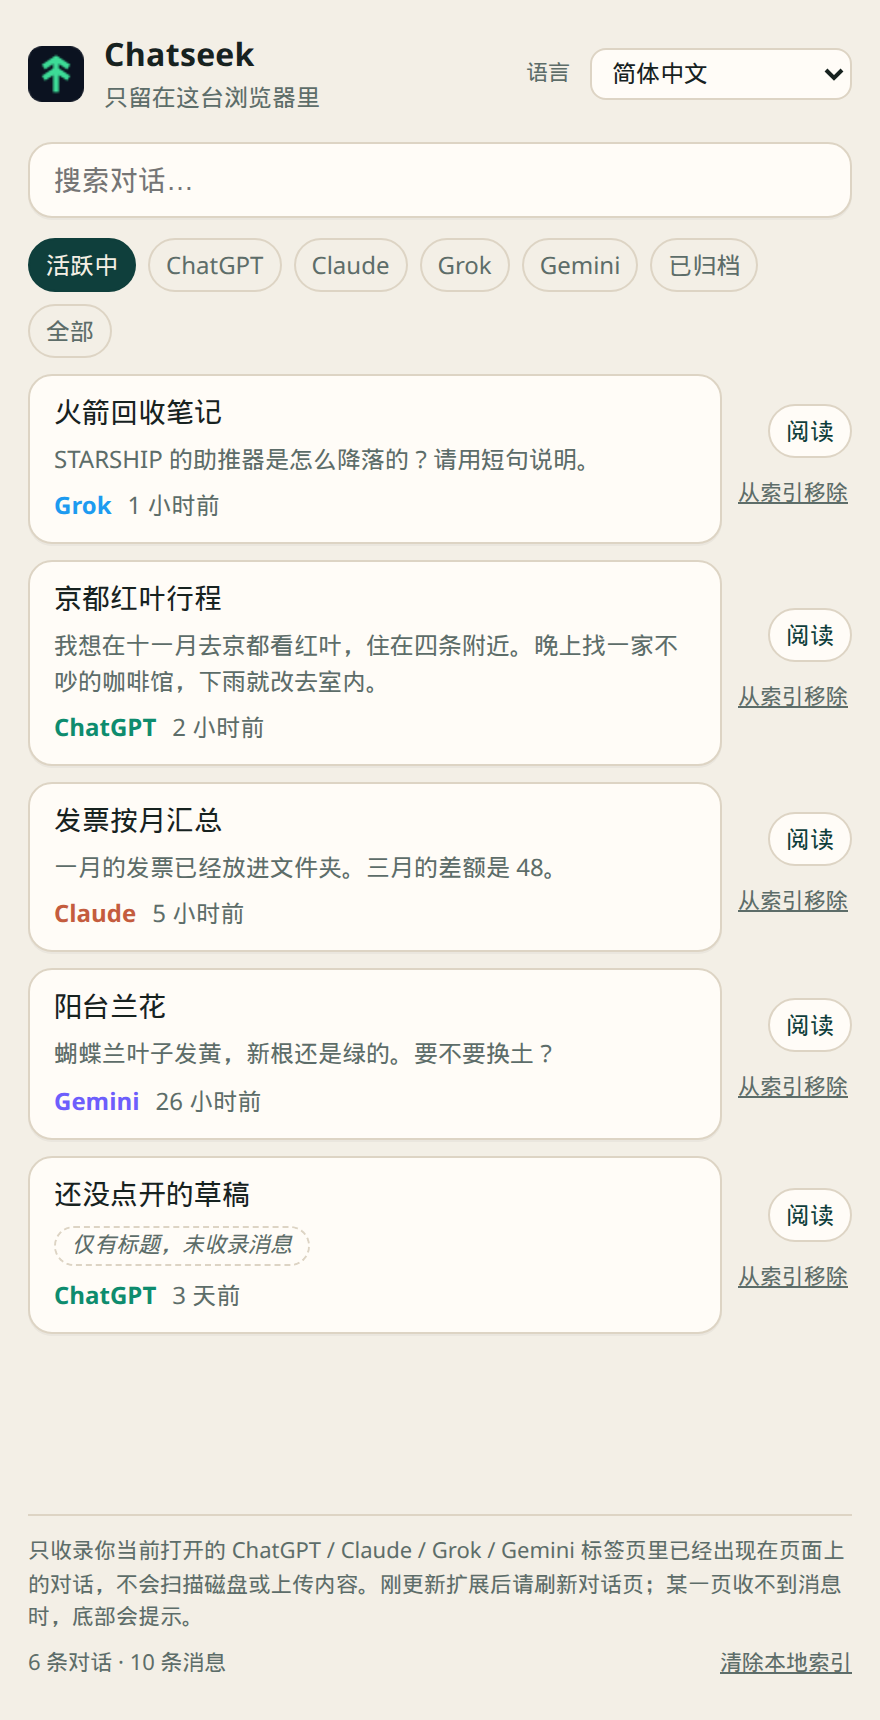
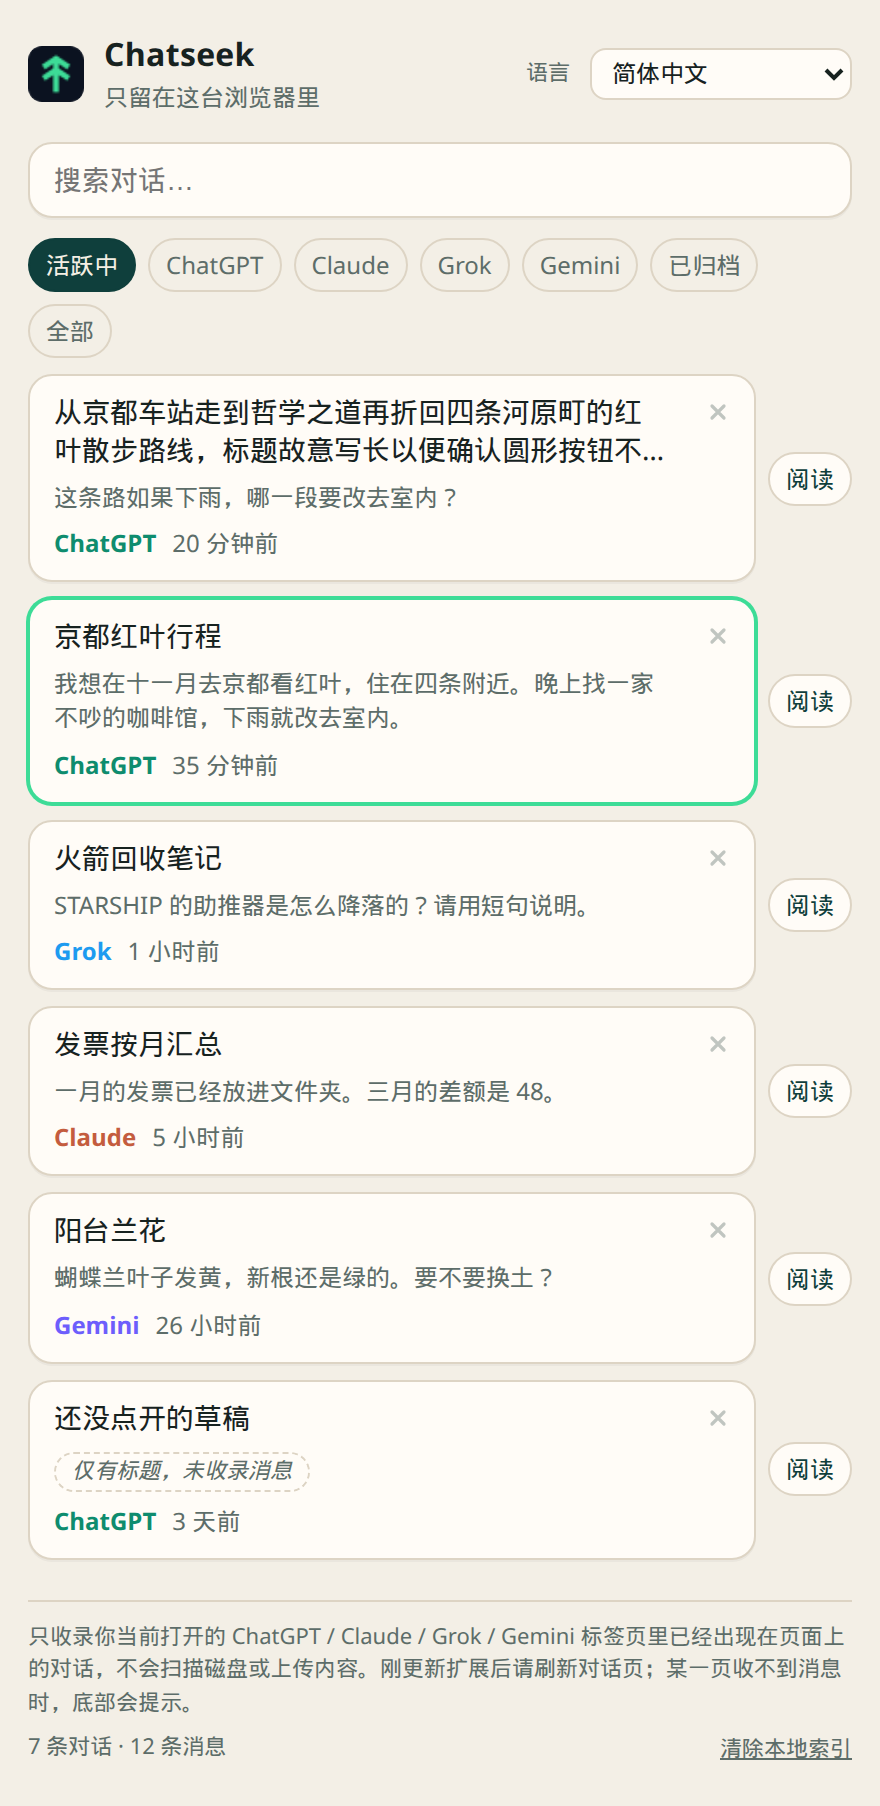
Show remove-from-index as a corner X on each side-panel row.
The control stays a button with the existing remove label in every locale, and it still asks for confirmation before deleting.

diff --git a/sidepanel/panel.js b/sidepanel/panel.js
@@ -262,16 +262,42 @@ function render(items, { emptyKind, error }) {
     removeBtn.type = "button";
     removeBtn.className = "remove";
     removeBtn.dataset.id = conv.id || "";
-    removeBtn.textContent = t.remove;
+    removeBtn.setAttribute("aria-label", t.remove);
+    removeBtn.title = t.remove;
+    removeBtn.append(removeIcon());
+    removeBtn.addEventListener("keydown", (event) => {
+      if (event.key !== "Enter" && event.key !== " " && event.key !== "Spacebar") return;
+      event.preventDefault();
+      if (event.repeat) return;
+      askRemove(conv);
+    });
     removeBtn.addEventListener("click", () => askRemove(conv));
 
     const actions = document.createElement("div");
     actions.className = "row-actions";
-    actions.append(readBtn, removeBtn);
-    row.append(btn, actions);
+    actions.append(readBtn);
+    row.append(btn, removeBtn, actions);
     li.append(row);
     listEl.append(li);
   }
+}
+
+function removeIcon() {
+  const ns = "http://www.w3.org/2000/svg";
+  const svg = document.createElementNS(ns, "svg");
+  svg.setAttribute("viewBox", "0 0 12 12");
+  svg.setAttribute("width", "12");
+  svg.setAttribute("height", "12");
+  svg.setAttribute("aria-hidden", "true");
+  svg.setAttribute("focusable", "false");
+  const path = document.createElementNS(ns, "path");
+  path.setAttribute("d", "M3 3l6 6M9 3L3 9");
+  path.setAttribute("fill", "none");
+  path.setAttribute("stroke", "currentColor");
+  path.setAttribute("stroke-width", "1.6");
+  path.setAttribute("stroke-linecap", "round");
+  svg.append(path);
+  return svg;
 }
 
 function closeRemove(answer) {

diff --git a/sidepanel/panel.css b/sidepanel/panel.css
@@ -232,23 +232,28 @@ body {
 }
 
 .row {
-  display: flex;
+  display: grid;
+  grid-template-columns: minmax(0, 1fr) auto;
   align-items: stretch;
-  gap: 6px;
+  column-gap: 6px;
   margin: 0 0 8px;
 }
 
-.row .item {
+.row > .item {
+  grid-column: 1;
+  grid-row: 1;
   margin: 0;
+  padding-right: 44px;
 }
 
 .row-actions {
+  grid-column: 2;
+  grid-row: 1;
   display: flex;
   flex-direction: column;
   justify-content: center;
   align-items: flex-end;
   gap: 6px;
-  flex: 0 0 auto;
 }
 
 .read {
@@ -269,17 +274,45 @@ body {
 }
 
 .remove {
-  flex: 0 0 auto;
-  align-self: flex-end;
-  border: 0;
-  background: none;
+  grid-column: 1;
+  grid-row: 1;
+  justify-self: end;
+  align-self: start;
+  z-index: 1;
+  width: 22px;
+  height: 22px;
+  margin: 8px 8px 0 0;
+  padding: 0;
+  border: 1px solid transparent;
+  border-radius: 999px;
+  background: transparent;
   color: var(--muted);
+  opacity: 0.38;
+  display: grid;
+  place-items: center;
   cursor: pointer;
-  font-size: 11px;
-  text-decoration: underline;
-  padding: 4px 2px;
-  max-width: 6rem;
-  word-break: auto-phrase;
+  line-height: 0;
+}
+
+.remove svg {
+  display: block;
+  width: 12px;
+  height: 12px;
+}
+
+.row:hover > .remove,
+.row:focus-within > .remove,
+.remove:hover,
+.remove:focus-visible {
+  opacity: 1;
+  color: var(--fg);
+  background: color-mix(in srgb, var(--card) 82%, var(--fg));
+  border-color: var(--line);
+}
+
+.remove:focus-visible {
+  outline: 2px solid var(--accent);
+  outline-offset: 2px;
 }
 
 .badge-archived {

diff --git a/README.md b/README.md
@@ -25,7 +25,7 @@
 - **本机阅读页**：每一行可以点「阅读」，也可以点预览。浏览器会新开一个分页，只读这台电脑 IndexedDB 里的标题、平台、日期和已收录消息，不连接四家网站。从搜索进来时，第一处命中是黄底，页顶可以上一处、下一处。页顶的「去原网站打开」才回到原来的网址（Gemini 的 `/u/数字/` 会保留）。聊天文字按纯文本显示，不会当成网页去执行。
 - **当前这段对话有绿框**：侧栏里正在打开的那一行用绿色边框标出，换标签或在页面里点进另一段会跟着走。
 - **封存仍可搜**：页面上明确标成已封存的对话留在索引里，带灰色「已封存」标签。目前只有 ChatGPT 有这种明确标记（封存列表，或打开后的封存横幅／取消封存按钮）。从侧栏消失不会改状态，也不会自动删。之后又在未封存的页面上看到，会恢复成活跃。
-- **从索引移除**：每一行都可以在确认后，从这台浏览器的索引里删掉这一段（对话、消息、倒排索引一起删）。网站上的聊天不动。网站侧栏里还列着它也不会被加回来；以后在网站上再打开这一段，才会重新收进来。
+- **从索引移除**：每一行右上角有一个圆形叉。平常比较淡，鼠标停在这一行或用键盘聚焦时变清楚。悬停提示仍是「从索引移除」（其他语言用各自的译文）。确认后，才从这台浏览器的索引里删掉这一段（对话、消息、倒排索引一起删）。网站上的聊天不动。网站侧栏里还列着它也不会被加回来；以后在网站上再打开这一段，才会重新收进来。
 - **按最后活动时间排**：日期尽量取对话的最后活动时间，不拿收录时间冒充，规则见下方「侧栏日期怎么读」。
 - **收不到会提示**：对话页连续约 8 秒一条消息都没读到时，侧栏底部会提示「页面可能改版」，工具栏图标出现「!」。
 - **界面语言**默认跟随浏览器，侧栏右上角也可以手动切换，选择会记在这台浏览器里。内置繁体中文、简体中文、English、日本語、한국어、español、français、Deutsch、português（巴西）。日期用该语言的 `Intl` 格式；「约」「早于」「日期未知」也会跟着翻。扩展在 `chrome://extensions` 上的名称和说明跟随浏览器语言。
@@ -57,7 +57,7 @@
 
 1. 打开 chatgpt.com、claude.ai、grok.com 或 gemini.google.com，浏览对话列表，点进你想以后搜得到的对话。
 2. 点工具栏的 Chatseek 图标打开侧栏，输入关键词。
-3. 用上方页签看活跃、某一家、已封存或全部。搜索框只搜当前页签。点标题回到原对话。点「阅读」或预览，在新分页里看本机收录的内容。每一行的「从索引移除」只删本机这一条，要先确认。
+3. 用上方页签看活跃、某一家、已封存或全部。搜索框只搜当前页签。点标题回到原对话。点「阅读」或预览，在新分页里看本机收录的内容。每一行右上角的圆形叉只删本机这一条，要先确认。
 
 很长的对话只会收已经画在页面上的消息；想多收，就在那段对话里往上滚。
 
@@ -110,7 +110,7 @@ npm run test:fixture  # ChatGPT / Gemini 离线样本
 npm run test:gemini   # Gemini 收录到 IndexedDB 全流程
 ```
 
-当前版本 1.5.0。版本记录在 [`notes/`](notes/)：[`CHANGELOG-1.1.0.md`](notes/CHANGELOG-1.1.0.md)（ChatGPT 收录与最后活动时间）、[`CHANGELOG-1.2.0.md`](notes/CHANGELOG-1.2.0.md)（Gemini）、[`CHANGELOG-1.2.1.md`](notes/CHANGELOG-1.2.1.md)（日期显示）、[`CHANGELOG-1.3.0.md`](notes/CHANGELOG-1.3.0.md)（预览、当前对话绿框、简体「条消息」）、[`CHANGELOG-1.4.0.md`](notes/CHANGELOG-1.4.0.md)（封存、页签、九种语言）、[`CHANGELOG-1.5.0.md`](notes/CHANGELOG-1.5.0.md)（本机阅读页）。侧栏预览的示例截图：[`docs/panel-1.3.0-idle.png`](docs/panel-1.3.0-idle.png)、[`docs/panel-1.3.0-search.png`](docs/panel-1.3.0-search.png)。1.4.0 页签、封存标签、移除确认和语言切换：[`docs/panel-1.4.0-active.png`](docs/panel-1.4.0-active.png)、[`docs/panel-1.4.0-archived.png`](docs/panel-1.4.0-archived.png)、[`docs/panel-1.4.0-remove.png`](docs/panel-1.4.0-remove.png)、[`docs/panel-1.4.0-en.png`](docs/panel-1.4.0-en.png)、[`docs/panel-1.4.0-ja.png`](docs/panel-1.4.0-ja.png)。1.5.0 阅读页（示例数据）：[`docs/reader-1.5.0-hit.png`](docs/reader-1.5.0-hit.png)、[`docs/reader-1.5.0-title-only.png`](docs/reader-1.5.0-title-only.png)、[`docs/reader-1.5.0-archived.png`](docs/reader-1.5.0-archived.png)、[`docs/panel-1.5.0-read.png`](docs/panel-1.5.0-read.png)。画面里是示例数据；「封存的读书笔记」那一行是写进示例索引的，不是 Claude 被检测成已封存。
+当前版本 1.5.0。版本记录在 [`notes/`](notes/)：[`CHANGELOG-1.1.0.md`](notes/CHANGELOG-1.1.0.md)（ChatGPT 收录与最后活动时间）、[`CHANGELOG-1.2.0.md`](notes/CHANGELOG-1.2.0.md)（Gemini）、[`CHANGELOG-1.2.1.md`](notes/CHANGELOG-1.2.1.md)（日期显示）、[`CHANGELOG-1.3.0.md`](notes/CHANGELOG-1.3.0.md)（预览、当前对话绿框、简体「条消息」）、[`CHANGELOG-1.4.0.md`](notes/CHANGELOG-1.4.0.md)（封存、页签、九种语言）、[`CHANGELOG-1.5.0.md`](notes/CHANGELOG-1.5.0.md)（本机阅读页）。侧栏预览的示例截图：[`docs/panel-1.3.0-idle.png`](docs/panel-1.3.0-idle.png)、[`docs/panel-1.3.0-search.png`](docs/panel-1.3.0-search.png)。1.4.0 页签、封存标签、移除确认和语言切换：[`docs/panel-1.4.0-active.png`](docs/panel-1.4.0-active.png)、[`docs/panel-1.4.0-archived.png`](docs/panel-1.4.0-archived.png)、[`docs/panel-1.4.0-remove.png`](docs/panel-1.4.0-remove.png)、[`docs/panel-1.4.0-en.png`](docs/panel-1.4.0-en.png)、[`docs/panel-1.4.0-ja.png`](docs/panel-1.4.0-ja.png)。1.5.0 阅读页（示例数据）：[`docs/reader-1.5.0-hit.png`](docs/reader-1.5.0-hit.png)、[`docs/reader-1.5.0-title-only.png`](docs/reader-1.5.0-title-only.png)、[`docs/reader-1.5.0-archived.png`](docs/reader-1.5.0-archived.png)、[`docs/panel-1.5.0-read.png`](docs/panel-1.5.0-read.png)、[`docs/panel-1.5.0-remove-x.png`](docs/panel-1.5.0-remove-x.png)。画面里是示例数据；「封存的读书笔记」那一行是写进示例索引的，不是 Claude 被检测成已封存。
 
 ## License
 

diff --git a/notes/HANDOFF-1.5.0.md b/notes/HANDOFF-1.5.0.md
@@ -8,6 +8,7 @@
 - `docs/reader-1.5.0-title-only.png`：只有标题，写着「仅有标题，未收录消息」。
 - `docs/reader-1.5.0-archived.png`：已封存的对话仍可阅读，页顶是灰色标签。简体界面写「已归档」，繁体写「已封存」，跟 1.4.0 一样。
 - `docs/panel-1.5.0-read.png`：侧栏每一行的「阅读」。
+- `docs/panel-1.5.0-remove-x.png`：窄侧栏里，一行悬停、一行键盘聚焦时的圆形叉，旁边是当前对话的绿框。长标题没有被叉盖住。
 
 截图用的是简体。Claude 那条「封存的读书笔记」仍是写进示例索引的，实机上 Claude 不会自己变成已封存。
 
@@ -19,7 +20,7 @@
 4. 回到侧栏，搜一个你记得的词，再点「阅读」。阅读页应跳到第一处黄底，页顶能看到「上一处」「下一处」和类似 `1 / 3` 的计数。到第一处时「上一处」停住，到最后一处时「下一处」停住。
 5. 点「去原网站打开」。应打开原来的那段聊天。如果是 Gemini，网址里的 `/u/数字/` 应还在。
 6. 找一条标着「仅有标题，未收录消息」的对话，点「阅读」。页上应有这句话和「去原网站打开」，不要是一片空白。
-7. 打开一条已封存的对话的阅读页。页顶应有灰色标签（简体「已归档」，繁体「已封存」），消息仍在。再找一条对话，在侧栏「从索引移除」并确认，然后如果还留着它的阅读页，刷新后应写这段已经不在本机索引里。回到侧栏，不要点开网站上的那一段，它不应自己出现。
+7. 打开一条已封存的对话的阅读页。页顶应有灰色标签（简体「已归档」，繁体「已封存」），消息仍在。再找一条对话，点该行右上角的圆形叉（悬停或键盘聚焦时比较清楚；提示仍是「从索引移除」）并确认。如果还留着它的阅读页，刷新后应写这段已经不在本机索引里。回到侧栏，不要点开网站上的那一段，它不应自己出现。
 8. 侧栏右上角把语言改成 English 或繁體中文，再开一次阅读页。按钮和「仅有标题」应跟着变。改回「跟随浏览器」后，阅读页也跟着浏览器语言。
 
 ## 自动化

diff --git a/notes/CHANGELOG-1.5.0.md b/notes/CHANGELOG-1.5.0.md
@@ -19,6 +19,10 @@
 
 收录时把当时页面上的消息 id 顺序记在对话的 `messageOrder` 字段上（普通字段，不升数据库版本）。之后再滚出更早的消息，会按重叠的 id 嵌进这条顺序。1.5.0 之前的旧记录没有这个字段，阅读页先按收录时间排；再次打开原对话并收录到消息后，会写成页面顺序。
 
+## 侧栏移除按钮
+
+每一行右上角是一个圆形叉，代替原来的「从索引移除」文字按钮。平常比较淡；鼠标停在这一行，或键盘聚焦到这个按钮（或这一行里）时变清楚，并有焦点环。悬停提示和 `aria-label` 仍用原来的 `remove` 文案，九种语言都是。点下去还是先弹出确认，确认之后才从本机索引删除。
+
 ## 没有改的
 
 - 不发网络请求，不拦截 fetch / XHR，不读 API Key，不碰 `batchexecute`。
